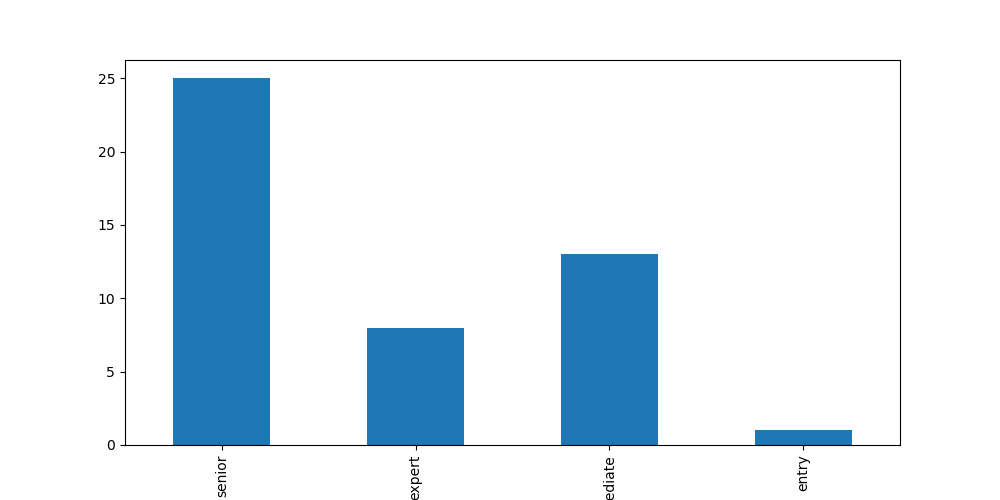
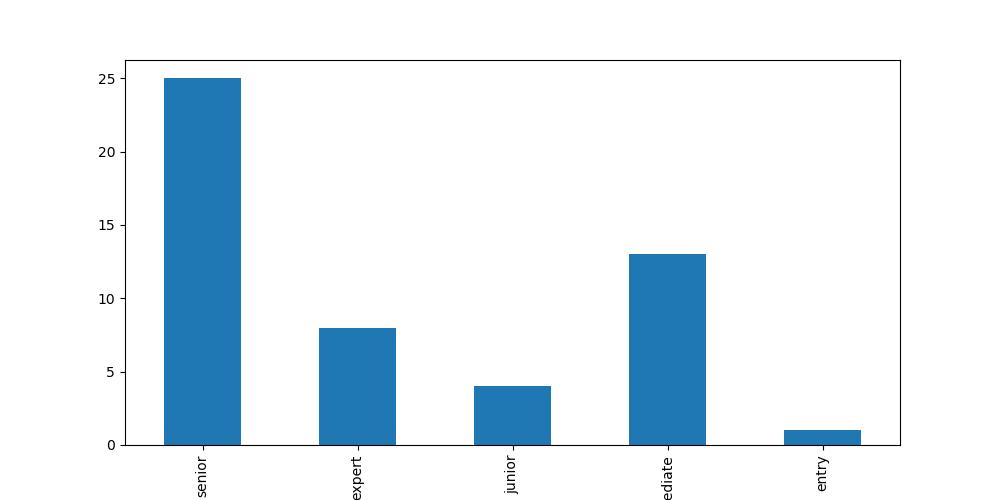
add new keywords

diff --git a/DataAnalysis.py b/DataAnalysis.py
@@ -39,7 +39,7 @@ tags_df = df["Description"].apply(cleanData)
 result = tags_df.apply(Counter).sum().items()
 result = sorted(result, key=lambda kv: kv[1],reverse=True)
 result_series = pd.Series({k: v for k, v in result})
-skills = ["senior","expert","intern","intermediate","entry","fresher"]
+skills = ["senior","expert","junior","intermediate","entry","fresher"]
 
 filter_series = result_series.filter(items=skills)
 filter_series.plot('bar',figsize=(10,5))
